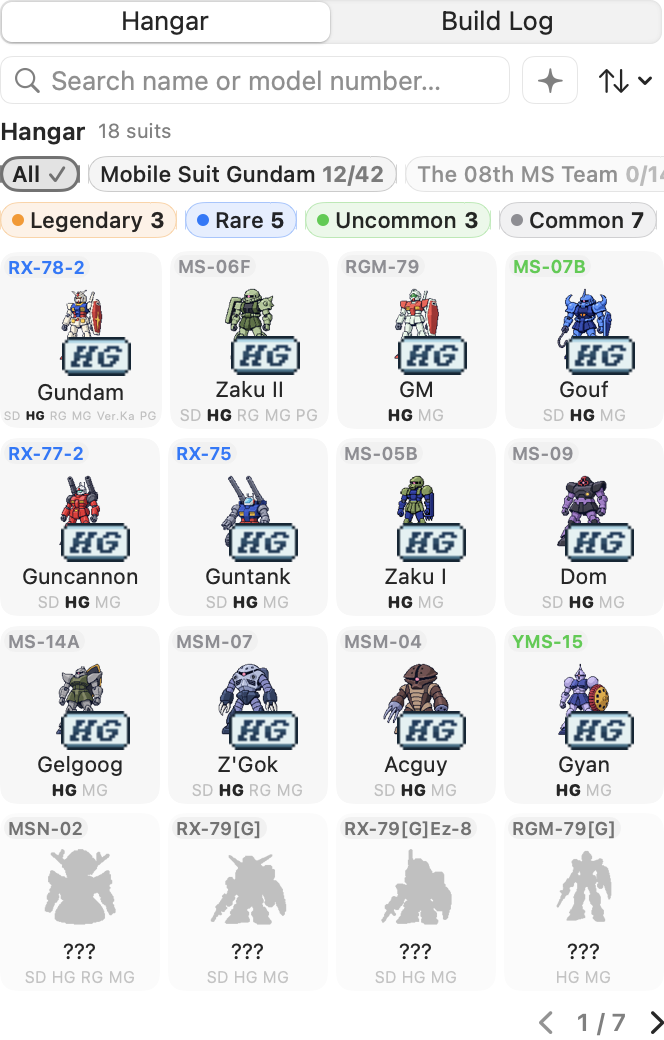
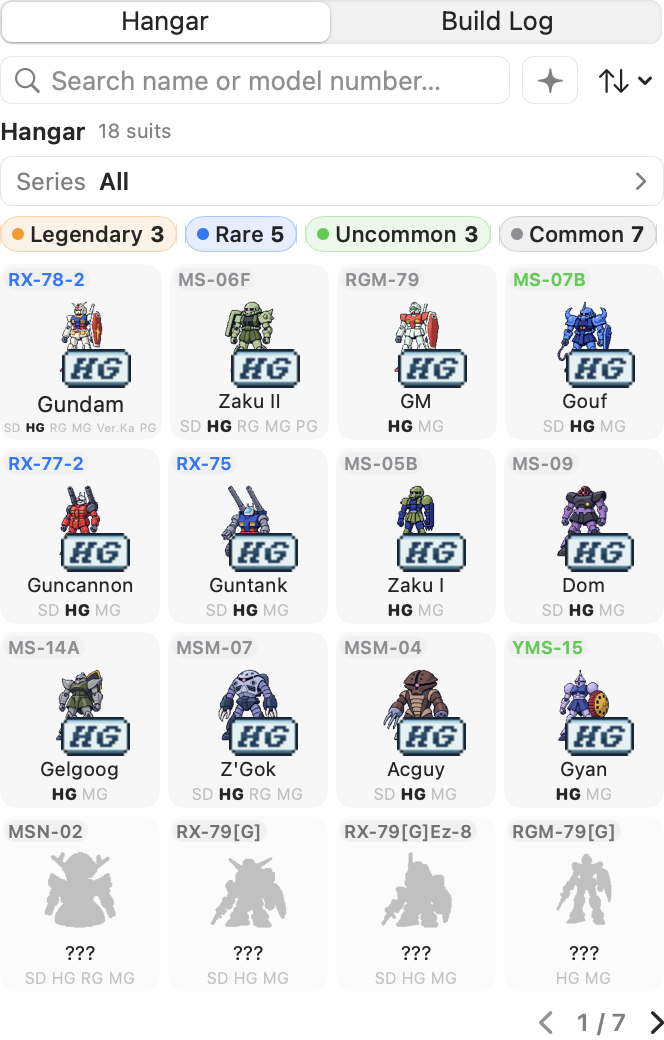
docs: show the series list and refresh the hangar screenshots

Changed region(s): [[0.0, 0.1231, 1.0, 0.9231], [0.5723, 0.8615, 0.6627, 0.9231]]

diff --git a/README.ja.md b/README.ja.md
@@ -17,9 +17,13 @@
 - **格納庫**: 機体ごとに 1 マスで、作ったグレードをすべて記録します。まだ作っていない機体は、型式番号だけを手がかりにしたシルエットで表示されます。作品別に絞り込めて、作品をコンプリートするとバッジがもらえます。
 - **アイテム**: スポンジヤスリは即座に成長させ、アンコモン／レアボックスはレアリティを保証します。
 
-| 格納庫 | 機体詳細 | ショップ |
-| ------ | -------- | -------- |
-| ![格納庫](assets/screenshot-gunpla-hangar-ja.png) | ![機体詳細](assets/screenshot-gunpla-detail-ja.png) | ![ショップ](assets/screenshot-gunpla-shop-ja.png) |
+| 格納庫 | 作品一覧 |
+| --- | --- |
+| ![格納庫](assets/screenshot-gunpla-hangar-ja.png) | ![作品一覧](assets/screenshot-gunpla-series-ja.png) |
+
+| 機体詳細 | ショップ |
+| --- | --- |
+| ![機体詳細](assets/screenshot-gunpla-detail-ja.png) | ![ショップ](assets/screenshot-gunpla-shop-ja.png) |
 
 ## 動作環境
 

diff --git a/README.ko.md b/README.ko.md
@@ -17,9 +17,13 @@
 - **격납고**: 기체마다 한 칸에 만든 등급을 모두 기록합니다. 아직 만들지 않은 기체는 형식번호만 단서로 남긴 실루엣으로 보입니다. 작품별로 걸러 볼 수 있고, 작품을 다 모으면 완성 배지를 받습니다.
 - **아이템**: 스펀지 사포는 즉시 성장시키고, 언커먼·레어 박스는 레어도를 보증합니다.
 
-| 격납고 | 기체 상세 | 상점 |
-| ------ | --------- | ---- |
-| ![격납고](assets/screenshot-gunpla-hangar-ko.png) | ![기체 상세](assets/screenshot-gunpla-detail-ko.png) | ![상점](assets/screenshot-gunpla-shop-ko.png) |
+| 격납고 | 작품 목록 |
+| --- | --- |
+| ![격납고](assets/screenshot-gunpla-hangar-ko.png) | ![작품 목록](assets/screenshot-gunpla-series-ko.png) |
+
+| 기체 상세 | 상점 |
+| --- | --- |
+| ![기체 상세](assets/screenshot-gunpla-detail-ko.png) | ![상점](assets/screenshot-gunpla-shop-ko.png) |
 
 ## 요구 사항
 

diff --git a/README.md b/README.md
@@ -17,9 +17,13 @@ A macOS menu-bar app that turns the AI coding tokens you already spend (Claude C
 - **Hangar**: one cell per suit records every grade you have built. Suits you have not built yet appear as silhouettes with only their model number as a clue. Filter by series and earn a badge for completing each one.
 - **Items**: a Sanding Sponge gives instant progress, and Uncommon or Rare Boxes guarantee a rarity tier.
 
-| Hangar | Suit detail | Shop |
-| ------ | ----------- | ---- |
-| ![Hangar](assets/screenshot-gunpla-hangar.png) | ![Suit detail](assets/screenshot-gunpla-detail.png) | ![Shop](assets/screenshot-gunpla-shop.png) |
+| Hangar | Series list |
+| --- | --- |
+| ![Hangar](assets/screenshot-gunpla-hangar.png) | ![Series list](assets/screenshot-gunpla-series.png) |
+
+| Suit detail | Shop |
+| --- | --- |
+| ![Suit detail](assets/screenshot-gunpla-detail.png) | ![Shop](assets/screenshot-gunpla-shop.png) |
 
 ## Requirements
 
